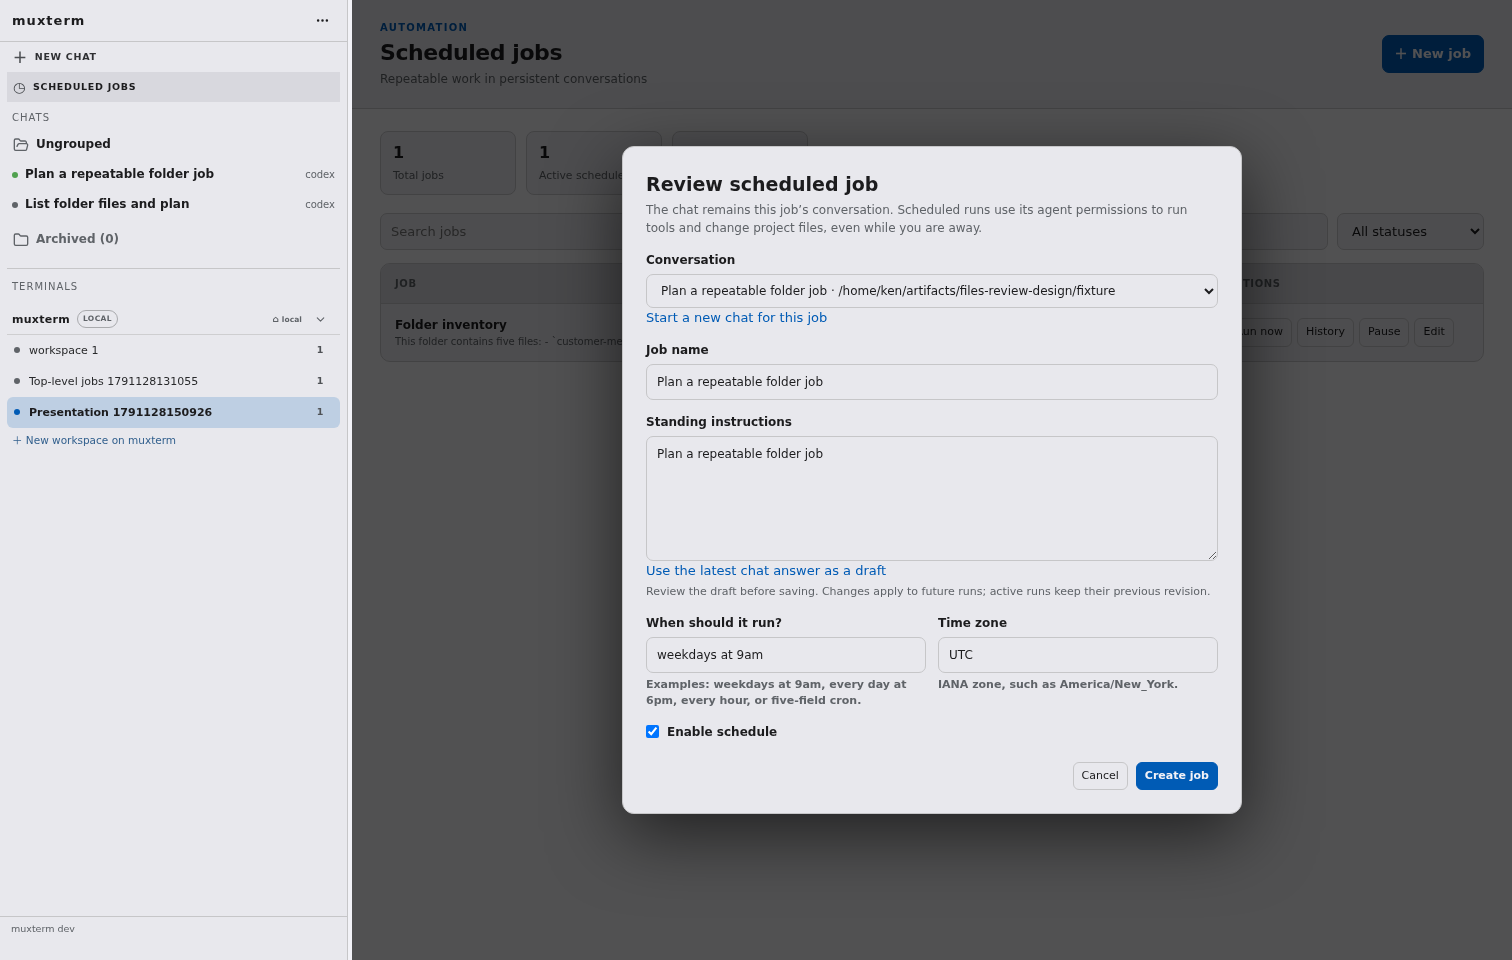
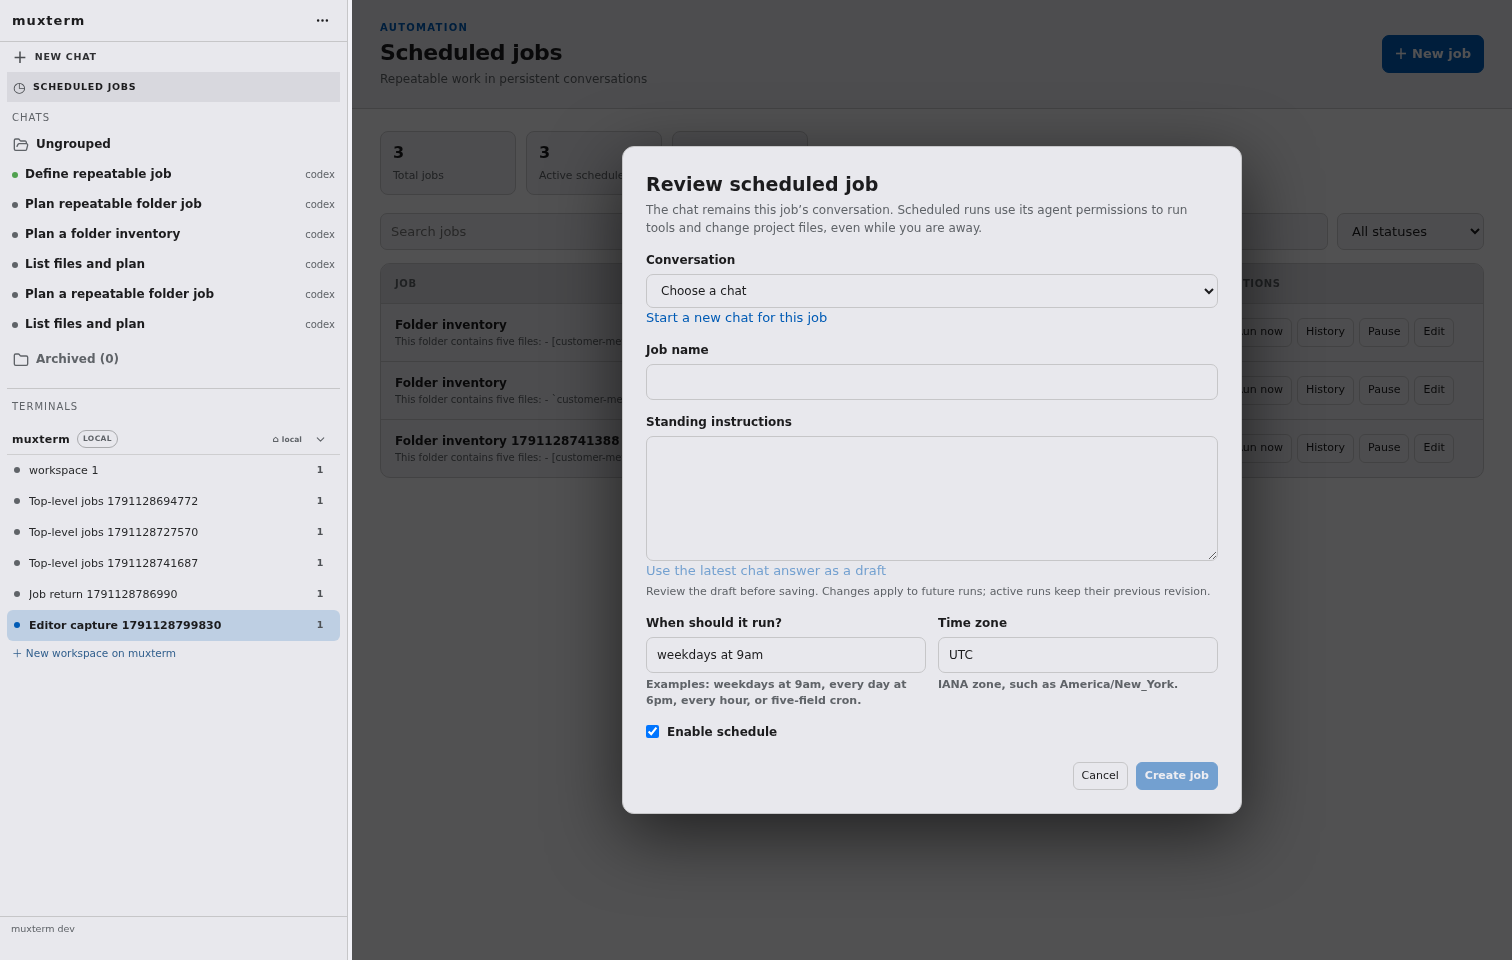
Require explicit job chat choice and preserve drafts

diff --git a/web/src/components/mux-scheduled-jobs.ts b/web/src/components/mux-scheduled-jobs.ts
@@ -33,6 +33,7 @@ export class MuxScheduledJobs extends LitElement {
   @state() private busy = '';
   @state() private editorOpen = false;
   @state() private editorJob = '';
+  @state() private editorChat?: SDKChat;
   @state() private formChat = '';
   @state() private formName = '';
   @state() private formBrief = '';
@@ -41,7 +42,11 @@ export class MuxScheduledJobs extends LitElement {
   @state() private formEnabled = true;
   private timer?: number;
   private lastCreateFromChat = '';
-  private availableChats(): SDKChat[] { return sdkChats.chats.filter(chat => !chat.archived && !this.jobs.some(job => job.chatId === chat.id)); }
+  private availableChats(): SDKChat[] {
+    const chats=[...sdkChats.chats];
+    if (this.editorChat && !chats.some(chat=>chat.id===this.editorChat?.id)) chats.unshift(this.editorChat);
+    return chats.filter(chat => !chat.archived && !this.jobs.some(job => job.chatId === chat.id));
+  }
 
   static override styles = css`
     :host { position:absolute; inset:0; z-index:4; display:flex; flex-direction:column; overflow:hidden; background:var(--chrome-body); color:var(--chrome-text-bright); font:13px/1.5 system-ui,sans-serif; }
@@ -124,22 +129,26 @@ export class MuxScheduledJobs extends LitElement {
   private async toggle(job:Job) { this.busy=job.id; this.error=''; try { await this.request<Job>(`/api/sdk-jobs/${job.id}`,{method:'PATCH',body:JSON.stringify({enabled:!job.enabled})}); await this.refresh(); } catch(error) { this.error=String(error); } finally { this.busy=''; } }
   private async openEditorForChat(chatID = '') {
     await this.refresh();
-    if (!chatID) chatID = this.availableChats()[0]?.id || '';
     const existing=this.jobs.find(job=>job.chatId===chatID);
-    const chat=sdkChats.chats.find(item=>item.id===chatID);
+    let chat=sdkChats.chats.find(item=>item.id===chatID);
+    if (chatID && !chat) {
+      try { chat=await this.request<SDKChat>(`/api/sdk-chats/${encodeURIComponent(chatID)}`); }
+      catch(error) { this.error=error instanceof Error?error.message:String(error); return; }
+    }
+    this.editorChat=chat;
     this.editorJob=existing?.id || ''; this.formChat=chatID;
     this.formName=existing?.name || chat?.title || '';
-    this.formBrief=existing?.brief || chat?.title || '';
+    this.formBrief=existing?.brief || '';
     this.formSchedule=existing?.scheduleLabel || existing?.schedule || 'weekdays at 9am';
     this.formZone=existing?.timezone || Intl.DateTimeFormat().resolvedOptions().timeZone || 'UTC';
     this.formEnabled=existing?.enabled ?? true;
     this.editorOpen=true;
   }
   private selectChat(chatID:string) {
-    const chat=sdkChats.chats.find(item=>item.id===chatID);
+    const chat=this.availableChats().find(item=>item.id===chatID);
+    if (chat) this.editorChat=chat;
     this.formChat=chatID;
-    this.formName=chat?.title || '';
-    this.formBrief=chat?.title || '';
+    if (!this.formName.trim()) this.formName=chat?.title || '';
   }
   private async useLatestChatAnswer() {
     if (!this.formChat) return;
@@ -167,6 +176,8 @@ export class MuxScheduledJobs extends LitElement {
     } catch(error) { this.error=String(error); } finally { this.busy=''; }
   }
   private emit(type:string,detail?:object) { this.dispatchEvent(new CustomEvent(type,{bubbles:true,composed:true,detail})); }
+  // The selected option is marked directly because a new chat can arrive in
+  // the option list after Lit first assigns the select element's value.
   override render() {
     const rows=this.jobs.filter(job=>`${job.name} ${job.brief}`.toLowerCase().includes(this.query.toLowerCase()) && (this.statusFilter==='all'||this.status(job).toLowerCase().replace(' ','-')===this.statusFilter));
     const priority=(job:Job)=>({'Needs attention':0,'Running':1,'Active':2,'Paused':3})[this.status(job)] ?? 4;
@@ -180,7 +191,7 @@ export class MuxScheduledJobs extends LitElement {
       <div class="toolbar"><input type="search" aria-label="Search scheduled jobs" placeholder="Search jobs" .value=${this.query} @input=${(event:InputEvent)=>{this.query=(event.target as HTMLInputElement).value;}}><select aria-label="Filter jobs by status" .value=${this.statusFilter} @change=${(event:Event)=>{this.statusFilter=(event.target as HTMLSelectElement).value;}}><option value="all">All statuses</option><option value="active">Active</option><option value="paused">Paused</option><option value="running">Running</option><option value="needs-attention">Needs attention</option></select></div>
       <div class="table-wrap"><table><thead><tr><th>Job</th><th>Status</th><th>Schedule</th><th>Next run</th><th>Last run</th><th>Actions</th></tr></thead><tbody>${rows.map(job=>{const last=this.latest(job),status=this.status(job),chatState=this.chatFor(job)?.state;return html`<tr><td><button class="job-name" @click=${()=>this.emit('chat-open',{sessionId:job.chatId})}>${job.name}</button><small title=${job.brief}>${job.brief}</small></td><td><span class="status ${status==='Needs attention'?'attention':status.toLowerCase()}">${status}</span></td><td class="schedule" title=${job.schedule}>${job.scheduleLabel || job.schedule}<small>${job.timezone} · ${job.schedule}</small></td><td>${job.enabled?timeLabel(job.nextRun):'—'}</td><td>${last?html`${timeLabel(last.startedAt)}<small>${last.trigger} · ${last.status}</small>`:'Never'}</td><td><div class="row-actions"><button title=${chatState==='working'?'Wait for the job chat to finish its current turn':'Start a manual run'} @click=${()=>void this.runNow(job)} ?disabled=${!!job.activeRunId||chatState==='working'||chatState==='starting'||chatState==='uncertain'||!!this.busy}>Run now</button><button @click=${()=>void this.openHistory(job)}>History</button><button @click=${()=>void this.toggle(job)}>${job.enabled?'Pause':'Resume'}</button><button @click=${()=>void this.openEditorForChat(job.chatId)}>Edit</button></div></td></tr>`})}</tbody></table>${!rows.length?html`<div class="empty">${this.jobs.length?'No jobs match your filters.':'No scheduled jobs yet. Start a chat, then review its schedule and standing instructions.'}</div>`:nothing}</div>
       ${current?html`<section class="history" aria-label="Run history for ${current.name}"><div class="run-list"><div class="panel-title">${current.name} · runs <button @click=${()=>{this.selectedJob='';this.detail=undefined;}} aria-label="Close run history">×</button></div>${(this.runs[current.id]||[]).map(run=>html`<button class="run-row ${this.detail?.id===run.id?'active':''}" @click=${()=>void this.loadRun(run)}><strong>${run.trigger==='manual'?'Manual':'Scheduled'} · ${run.status}</strong><small>${timeLabel(run.startedAt)} · brief v${run.revision}</small></button>`)}${!this.runs[current.id]?.length?html`<div class="empty">No runs yet.</div>`:nothing}</div><div class="run-detail">${this.detail?html`<h3>${this.detail.trigger==='manual'?'Manual':'Scheduled'} run · ${this.detail.status}</h3><p>${timeLabel(this.detail.startedAt)}${this.detail.finishedAt?` → ${timeLabel(this.detail.finishedAt)}`:''} · brief revision ${this.detail.revision}</p>${this.detail.summary?html`<p>${this.detail.summary}</p>`:nothing}<button @click=${()=>this.emit('chat-open',{sessionId:current.chatId})}>Open job chat</button><h3 style="margin-top:18px">Run log</h3>${(this.detail.logs||[]).map(log=>html`<div class="log"><time>${new Date(log.at).toLocaleTimeString()}</time><span class="kind">${log.kind}</span><span>${log.message}</span></div>`)}`:html`<div class="empty">Select a run to read its log.</div>`}</div></section>`:nothing}
-      </main>${this.editorOpen?html`<div class="editor-backdrop"><div class="editor" role="dialog" aria-modal="true" aria-label=${this.editorJob?'Edit scheduled job':'Review scheduled job'}><h2>${this.editorJob?'Edit scheduled job':'Review scheduled job'}</h2><p>The chat remains this job’s conversation. Scheduled runs use its agent permissions to run tools and change project files, even while you are away.</p>${this.error?html`<div class="error" role="alert">${this.error}</div>`:nothing}${this.editorJob?html`<label>Conversation<input aria-label="Job conversation" .value=${sdkChats.chats.find(chat=>chat.id===this.formChat)?.title||this.formChat} readonly></label>`:html`<label>Conversation<select aria-label="Job conversation" .value=${this.formChat} @change=${(event:Event)=>this.selectChat((event.target as HTMLSelectElement).value)}>${!this.formChat?html`<option value="">Choose a chat</option>`:nothing}${this.availableChats().map(chat=>html`<option value=${chat.id}>${chat.title} · ${chat.projectPath}</option>`)}</select></label>`}${!this.editorJob?html`<button class="link" @click=${()=>this.emit('job-new')}>Start a new chat for this job</button>`:nothing}<label>Job name<input aria-label="Job name" .value=${this.formName} @input=${(event:InputEvent)=>{this.formName=(event.target as HTMLInputElement).value;}}></label><label>Standing instructions<textarea aria-label="Standing instructions" .value=${this.formBrief} @input=${(event:InputEvent)=>{this.formBrief=(event.target as HTMLTextAreaElement).value;}}></textarea></label><button class="link" @click=${()=>void this.useLatestChatAnswer()} ?disabled=${!this.formChat||!!this.busy}>Use the latest chat answer as a draft</button><div class="hint">Review the draft before saving. Changes apply to future runs; active runs keep their previous revision.</div><div class="inline"><label>When should it run?<input aria-label="Job schedule" .value=${this.formSchedule} @input=${(event:InputEvent)=>{this.formSchedule=(event.target as HTMLInputElement).value;}}><div class="hint">Examples: weekdays at 9am, every day at 6pm, every hour, or five-field cron.</div></label><label>Time zone<input aria-label="Job time zone" .value=${this.formZone} @input=${(event:InputEvent)=>{this.formZone=(event.target as HTMLInputElement).value;}}><div class="hint">IANA zone, such as America/New_York.</div></label></div><label class="check"><input type="checkbox" .checked=${this.formEnabled} @change=${(event:Event)=>{this.formEnabled=(event.target as HTMLInputElement).checked;}}>Enable schedule</label><div class="actions"><button @click=${()=>{this.editorOpen=false;this.error='';}}>Cancel</button><button @click=${()=>void this.saveEditor()} ?disabled=${!!this.busy||!this.formChat||!this.formName.trim()||!this.formBrief.trim()}>${this.editorJob?'Save changes':'Create job'}</button></div></div></div>`:nothing}`;
+      </main>${this.editorOpen?html`<div class="editor-backdrop"><div class="editor" role="dialog" aria-modal="true" aria-label=${this.editorJob?'Edit scheduled job':'Review scheduled job'}><h2>${this.editorJob?'Edit scheduled job':'Review scheduled job'}</h2><p>The chat remains this job’s conversation. Scheduled runs use its agent permissions to run tools and change project files, even while you are away.</p>${this.error?html`<div class="error" role="alert">${this.error}</div>`:nothing}${this.editorJob?html`<label>Conversation<input aria-label="Job conversation" .value=${sdkChats.chats.find(chat=>chat.id===this.formChat)?.title||this.formChat} readonly></label>`:html`<label>Conversation<select aria-label="Job conversation" @change=${(event:Event)=>this.selectChat((event.target as HTMLSelectElement).value)}><option value="" ?selected=${!this.formChat}>Choose a chat</option>${this.availableChats().map(chat=>html`<option value=${chat.id} ?selected=${chat.id===this.formChat}>${chat.title} · ${chat.projectPath}</option>`)}</select></label>`}${!this.editorJob?html`<button class="link" @click=${()=>this.emit('job-new')}>Start a new chat for this job</button>`:nothing}<label>Job name<input aria-label="Job name" .value=${this.formName} @input=${(event:InputEvent)=>{this.formName=(event.target as HTMLInputElement).value;}}></label><label>Standing instructions<textarea aria-label="Standing instructions" .value=${this.formBrief} @input=${(event:InputEvent)=>{this.formBrief=(event.target as HTMLTextAreaElement).value;}}></textarea></label><button class="link" @click=${()=>void this.useLatestChatAnswer()} ?disabled=${!this.formChat||!!this.busy}>Use the latest chat answer as a draft</button><div class="hint">Review the draft before saving. Changes apply to future runs; active runs keep their previous revision.</div><div class="inline"><label>When should it run?<input aria-label="Job schedule" .value=${this.formSchedule} @input=${(event:InputEvent)=>{this.formSchedule=(event.target as HTMLInputElement).value;}}><div class="hint">Examples: weekdays at 9am, every day at 6pm, every hour, or five-field cron.</div></label><label>Time zone<input aria-label="Job time zone" .value=${this.formZone} @input=${(event:InputEvent)=>{this.formZone=(event.target as HTMLInputElement).value;}}><div class="hint">IANA zone, such as America/New_York.</div></label></div><label class="check"><input type="checkbox" .checked=${this.formEnabled} @change=${(event:Event)=>{this.formEnabled=(event.target as HTMLInputElement).checked;}}>Enable schedule</label><div class="actions"><button @click=${()=>{this.editorOpen=false;this.error='';}}>Cancel</button><button @click=${()=>void this.saveEditor()} ?disabled=${!!this.busy||!this.formChat||!this.formName.trim()||!this.formBrief.trim()}>${this.editorJob?'Save changes':'Create job'}</button></div></div></div>`:nothing}`;
   }
 }
 
